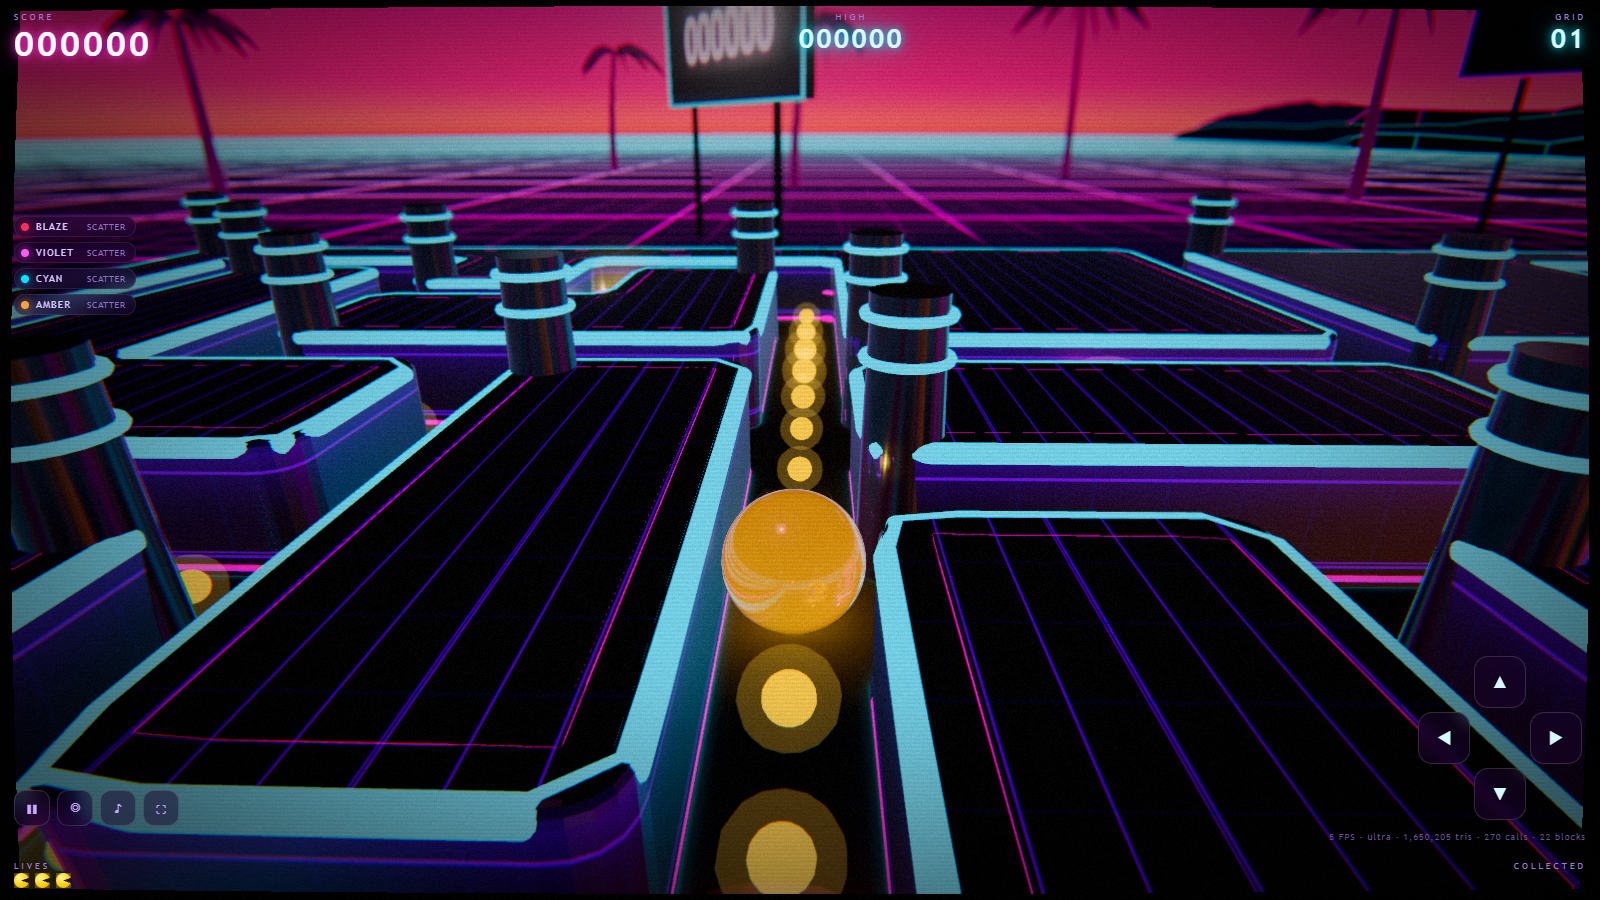
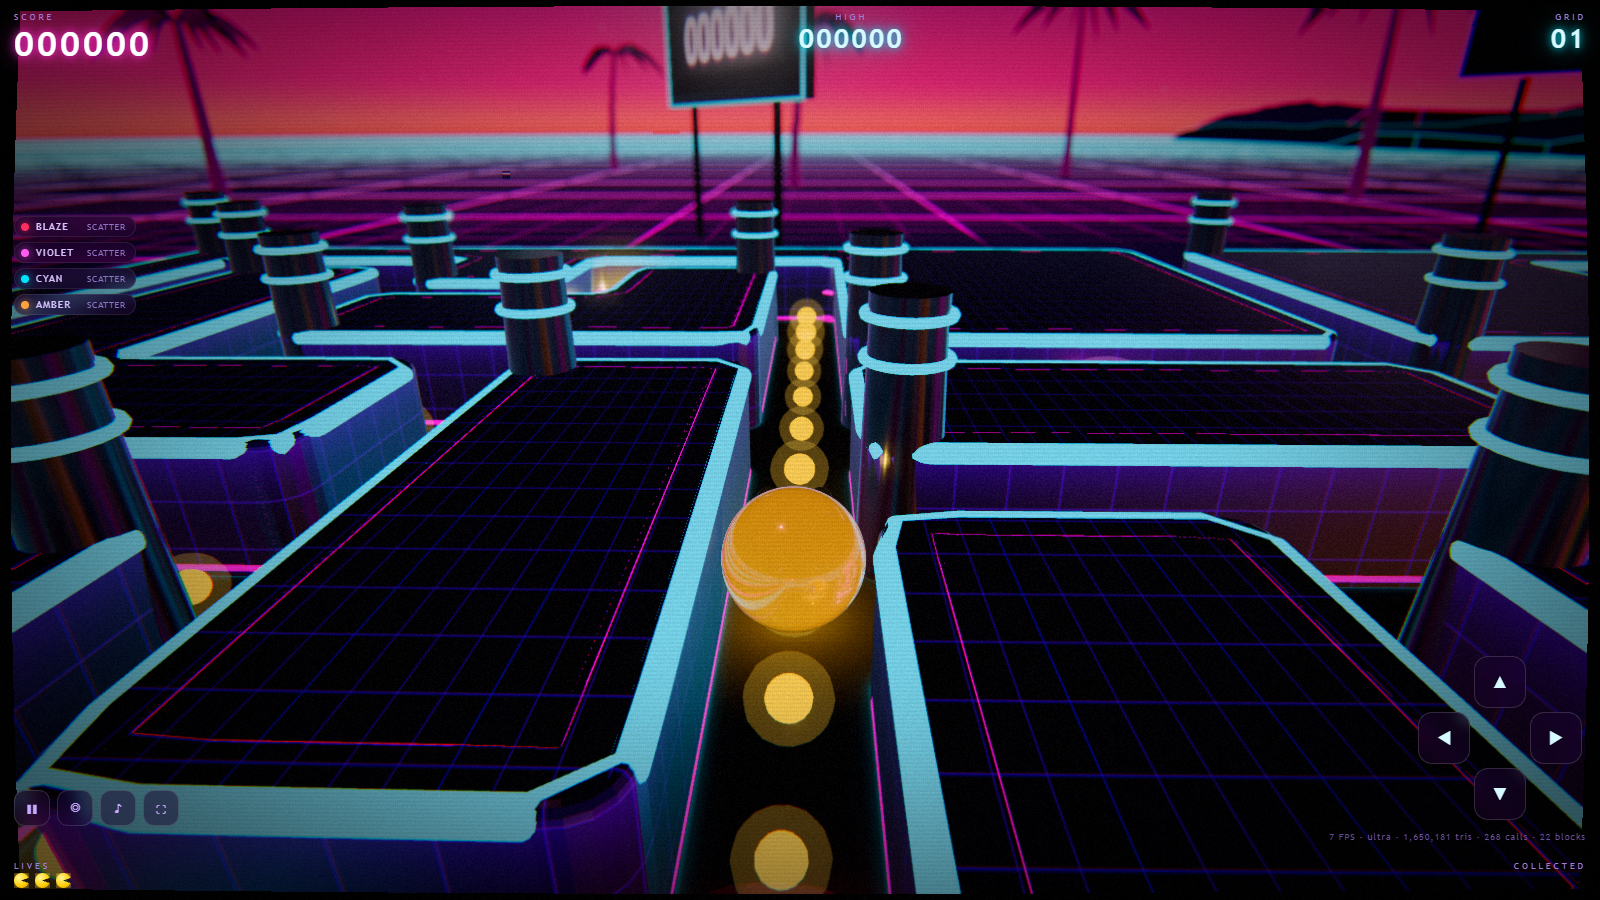
Wall panels become a real tile grid
The wall texture was horizontal rules only, which reads as scanlines at close
range rather than as the laid panels the reference walls have. It is now a proper
square tile grid: grout joints in both axes as the brightest element, a faint
per-tile shade variation so the surface is not a flat field, an inner bevel along
each tile's top and left edges, and one cyan accent joint per texture. Sized so a
texture spans roughly a tile and a half of wall - enough joints to read as
panelling, few enough never to turn into moire.

1218 simulation and geometry assertions, 42 browser assertions, no shader errors.

diff --git a/docs/assets/index-XClKDvgt.js b/docs/assets/index-XClKDvgt.js
@@ -3856,7 +3856,7 @@ uniform float uGhostRimStrength;`).replace("#include <emissivemap_fragment>",`#i
         float a = fade * edge * (0.16 + 0.05 * sin(time * 3.0));
         gl_FragColor = vec4(colour * a * 2.0, a);
       }
-    `}),o=new pe(s,r);return i.add(o),{group:i,update(a){const l=.5+.5*Math.sin(a*3.4);n.scale.setScalar(.9+l*.25),n.rotation.y=a*.9,t.opacity=.35+l*.4,r.uniforms.time.value=a}}}const qo=new Map;function t_(i){if(qo.has(i))return qo.get(i);const e=512,t=256,n=document.createElement("canvas");n.width=e,n.height=t;const s=n.getContext("2d");s.clearRect(0,0,e,t),s.font='bold 150px "Trebuchet MS", "Segoe UI", sans-serif',s.textAlign="center",s.textBaseline="middle",s.lineJoin="round",s.lineWidth=16,s.strokeStyle="rgba(6, 0, 24, 0.92)",s.strokeText(i,e/2,t/2),s.shadowColor="#00e9ff",s.shadowBlur=12,s.fillStyle="#7ef0ff",s.fillText(i,e/2,t/2);const r=new is(n);return r.colorSpace=Et,qo.set(i,r),r}function n_(i=8){const e=new Je,t=[];for(let n=0;n<i;n++){const s=new tl({transparent:!0,depthWrite:!1,depthTest:!1,toneMapped:!1}),r=new Gu(s);r.visible=!1,r.scale.set(2.6,1.3,1),e.add(r),t.push(r)}return{group:e,sync(n){for(let s=0;s<t.length;s++){const r=t[s],o=n[s];if(!o){r.visible=!1;continue}const a=o.age/o.life;r.visible=!0;const l=t_(String(o.points));r.material.map!==l&&(r.material.map=l,r.material.needsUpdate=!0),r.position.set(Vn(o.x),.7+a*1.5,Wn(o.y)),r.material.opacity=1-a*a,r.scale.set(2.6+a*.8,1.3+a*.4,1)}}}}const Ba=.26,Ir=i=>i-14,Ur=i=>15.5-i;function qc(i,e,t){return t<0||t>=cn||e<0||e>=ht?!1:i[t][e]===vt.WALL}function i_(i){const e=new Uint8Array(ht*cn),t=[];for(let n=0;n<cn;n++)for(let s=0;s<ht;s++){if(!qc(i,s,n)||e[n*ht+s])continue;const r=[],o=[[s,n]];for(e[n*ht+s]=1;o.length;){const[a,l]=o.pop();r.push([a,l]);const c=[[a+1,l],[a-1,l],[a,l+1],[a,l-1]];for(const[u,h]of c)u<0||u>=ht||h<0||h>=cn||!qc(i,u,h)||e[h*ht+u]||(e[h*ht+u]=1,o.push([u,h]))}t.push(r)}return t}function s_(i,e){const t=new Set(e.map(([l,c])=>`${l},${c}`)),n=(l,c)=>t.has(`${l},${c}`),s=new Map,r=(l,c,u,h)=>{const f=`${l},${c}`;s.has(f)||s.set(f,[]),s.get(f).push([u,h])};for(const[l,c]of e)n(l,c-1)||r(l+1,c,l,c),n(l,c+1)||r(l,c+1,l+1,c+1),n(l-1,c)||r(l,c,l,c+1),n(l+1,c)||r(l+1,c+1,l+1,c);const o=[];let a=0;for(;s.size&&a++<5e3;){const l=s.keys().next().value;let[c,u]=l.split(",").map(Number);const h=[[c,u]];let f=[c,u],p=0;for(;p++<5e3;){const g=`${f[0]},${f[1]}`,v=s.get(g);if(!v||v.length===0)break;const m=v.shift();if(v.length===0&&s.delete(g),f=m,f[0]===c&&f[1]===u)break;h.push(f)}h.length>=4&&o.push(h)}return o.map(r_)}function r_(i){const e=[],t=i.length;for(let n=0;n<t;n++){const s=i[(n-1+t)%t],r=i[n],o=i[(n+1)%t],a=r[0]-s[0],l=r[1]-s[1],c=o[0]-r[0],u=o[1]-r[1];a*u-l*c!==0&&e.push(r)}return e.length>=4?e:i}function Er(i){let e=0;for(let t=0;t<i.length;t++){const[n,s]=i[t],[r,o]=i[(t+1)%i.length];e+=n*o-r*s}return e/2}function za(i,e,t=5){const n=i.map(([o,a])=>new ne(Ir(o),Ur(a))),s=n.length,r=[];for(let o=0;o<s;o++){const a=n[(o-1+s)%s],l=n[o],c=n[(o+1)%s],u=l.clone().sub(a),h=c.clone().sub(l),f=u.length(),p=h.length();if(f<1e-6||p<1e-6)continue;u.divideScalar(f),h.divideScalar(p);const g=Math.min(e,f*.5,p*.5),v=l.clone().sub(u.clone().multiplyScalar(g)),m=l.clone().add(h.clone().multiplyScalar(g));r.push(v);for(let d=1;d<t;d++){const T=d/t,b=1-T;r.push(new ne(b*b*v.x+2*b*T*l.x+T*T*m.x,b*b*v.y+2*b*T*l.y+T*T*m.y))}r.push(m)}return r}function o_(i,e){const t=i.length;let n=0;for(let o=0;o<t;o++){const a=i[o],l=i[(o+1)%t];n+=a.x*l.y-l.x*a.y}const s=n>0?1:-1,r=[];for(let o=0;o<t;o++){const a=i[o],l=i[(o-1+t)%t],c=i[(o+1)%t],u=c.x-l.x,h=c.y-l.y,f=Math.hypot(u,h)||1,p=-h/f*s*e,g=u/f*s*e;r.push(new ne(a.x+p,a.y+g))}return r}function a_(i,e){const t=new ju(za(i,Ba));for(const n of e)t.holes.push(new Ua(za(n,Ba)));return t}function br(i,e,t,n){const s=i.map(a=>new I(a.x,e,-a.y)),r=new qu(s,!0,"catmullrom",.02),o=Math.max(24,Math.min(1200,Math.round(r.getLength()*2.4)));return new al(r,o,t,n,!0)}function l_(){const e=document.createElement("canvas");e.width=e.height=256;const t=e.getContext("2d");t.fillStyle="#000000",t.fillRect(0,0,256,256),t.strokeStyle="rgba(150, 95, 255, 0.14)",t.lineWidth=1;for(let s=4;s<256;s+=8)t.beginPath(),t.moveTo(0,s+.5),t.lineTo(256,s+.5),t.stroke();t.strokeStyle="rgba(215, 150, 255, 0.9)",t.lineWidth=3;for(let s=0;s<256;s+=84)t.beginPath(),t.moveTo(0,s+.5),t.lineTo(256,s+.5),t.stroke();t.strokeStyle="rgba(0, 230, 255, 0.2)";for(let s=0;s<256;s+=64)t.beginPath(),t.moveTo(s+.5,0),t.lineTo(s+.5,256),t.stroke();const n=new is(e);return n.colorSpace=Et,n.wrapS=Cs,n.wrapT=Cs,n.repeat.set(.5,1.1),n.anisotropy=4,n}function c_(i,e=1024){const t=document.createElement("canvas");t.width=e,t.height=e;const n=t.getContext("2d");n.fillStyle="#000000",n.fillRect(0,0,e,e);const s=34,r=l=>(l+s/2)/s*e,o=[{blur:34,width:11,alpha:.13},{blur:16,width:6,alpha:.24},{blur:6,width:2.6,alpha:.62}];for(const l of o){n.save(),n.globalCompositeOperation="lighter",n.shadowBlur=l.blur,n.lineWidth=l.width,n.lineJoin="round",n.lineCap="round";for(const{poly:c,near:u}of i){const h=u?`rgba(255, 60, 220, ${l.alpha})`:`rgba(60, 230, 255, ${l.alpha})`;n.strokeStyle=h,n.shadowColor=h,n.beginPath(),c.forEach((f,p)=>{const g=r(f.x),v=e-r(f.y);p===0?n.moveTo(g,v):n.lineTo(g,v)}),n.closePath(),n.stroke()}n.restore()}const a=new is(t);return a.colorSpace=Et,a.wrapS=Rn,a.wrapT=Rn,a.needsUpdate=!0,{texture:a,span:s}}function u_(i,e){const t=i_(i.tiles),n=[],s=[],r=[],o=[],a=[],l=[],c=[],u=[];for(const M of t){const z=s_(i.tiles,M);if(!z.length)continue;z.sort((be,Pe)=>Math.abs(Er(Pe))-Math.abs(Er(be)));const $=z[0],Q=z.slice(1),J=Er($.map(([be,Pe])=>[Ir(be),Ur(Pe)])),De=(be,Pe)=>{const ye=Er(be.map(([We,Ne])=>[Ir(We),Ur(Ne)]));return Pe===ye>0?be:[...be].reverse()},ue=J>0?$:[...$].reverse(),ve=Q.map(be=>De(be,!1)),ke=ue.map(([be,Pe])=>new ne(Ir(be),Ur(Pe)));for(let be=0;be<ke.length;be++){const Pe=ke[(be-1+ke.length)%ke.length],ye=ke[be],We=ke[(be+1)%ke.length],Ne=ye.clone().sub(Pe),$e=We.clone().sub(ye);if(Ne.lengthSq()<1e-6||$e.lengthSq()<1e-6||(Ne.normalize(),$e.normalize(),Ne.x*$e.y-Ne.y*$e.x<=0))continue;const O=new ne(-Ne.y-$e.y,Ne.x+$e.x);if(O.lengthSq()<1e-6)continue;O.normalize().multiplyScalar(.34);const he=ye.clone().add(O);c.some(K=>K.distanceToSquared(he)<6)||c.push(he)}const se=a_(ue,ve),Ae=new ol(se,{depth:an,bevelEnabled:!0,bevelThickness:.04,bevelSize:.045,bevelSegments:e.bevelSegments,curveSegments:4});Ae.rotateX(-Math.PI/2),n.push(Ae);for(const be of[ue,...ve]){const Pe=za(be,Ba,e.tubeArcSegments);s.push(br(Pe,an+.02,yr,e.tubeRadial));const ye=o_(Pe,.235);r.push(br(ye,an+.02,yr*.86,e.tubeRadial)),o.push(br(Pe,.07,yr*.7,Math.max(4,e.tubeRadial-2))),a.push(br(Pe,an*.52,yr*.5,Math.max(4,e.tubeRadial-3)));let We=0;for(let Ne=1;Ne<Pe.length;Ne++){const $e=Pe[Ne-1],O=Pe[Ne],he=Math.hypot(O.x-$e.x,O.y-$e.y);if(We+=he,We<1.6)continue;We=0;const K=new Gt(.095,an*.8,.07),ee=Math.atan2(-(O.y-$e.y),O.x-$e.x);K.rotateY(-ee),K.translate(O.x,an*.42,-O.y),l.push(K)}u.push({poly:Pe,near:!1})}}const h=M=>{if(M.length===0)return null;const z=ka(M);return M.forEach($=>$.dispose()),z},f=h(n),p=h(s),g=h(r),v=h(o),m=h(a),d=h(l),T=l_(),b=new hn({color:Ke.wallBody,metalness:.62,roughness:.22,clearcoat:1,clearcoatRoughness:.32,envMapIntensity:.7,emissiveMap:T,emissive:new fe(10640639),emissiveIntensity:.5});b.onBeforeCompile=M=>{M.uniforms.uRimLow={value:new fe(655384)},M.uniforms.uRimHigh={value:new fe(6036660)},M.uniforms.uWallHeight={value:an},M.vertexShader=M.vertexShader.replace("#include <common>",`#include <common>
+    `}),o=new pe(s,r);return i.add(o),{group:i,update(a){const l=.5+.5*Math.sin(a*3.4);n.scale.setScalar(.9+l*.25),n.rotation.y=a*.9,t.opacity=.35+l*.4,r.uniforms.time.value=a}}}const qo=new Map;function t_(i){if(qo.has(i))return qo.get(i);const e=512,t=256,n=document.createElement("canvas");n.width=e,n.height=t;const s=n.getContext("2d");s.clearRect(0,0,e,t),s.font='bold 150px "Trebuchet MS", "Segoe UI", sans-serif',s.textAlign="center",s.textBaseline="middle",s.lineJoin="round",s.lineWidth=16,s.strokeStyle="rgba(6, 0, 24, 0.92)",s.strokeText(i,e/2,t/2),s.shadowColor="#00e9ff",s.shadowBlur=12,s.fillStyle="#7ef0ff",s.fillText(i,e/2,t/2);const r=new is(n);return r.colorSpace=Et,qo.set(i,r),r}function n_(i=8){const e=new Je,t=[];for(let n=0;n<i;n++){const s=new tl({transparent:!0,depthWrite:!1,depthTest:!1,toneMapped:!1}),r=new Gu(s);r.visible=!1,r.scale.set(2.6,1.3,1),e.add(r),t.push(r)}return{group:e,sync(n){for(let s=0;s<t.length;s++){const r=t[s],o=n[s];if(!o){r.visible=!1;continue}const a=o.age/o.life;r.visible=!0;const l=t_(String(o.points));r.material.map!==l&&(r.material.map=l,r.material.needsUpdate=!0),r.position.set(Vn(o.x),.7+a*1.5,Wn(o.y)),r.material.opacity=1-a*a,r.scale.set(2.6+a*.8,1.3+a*.4,1)}}}}const Ba=.26,Ir=i=>i-14,Ur=i=>15.5-i;function qc(i,e,t){return t<0||t>=cn||e<0||e>=ht?!1:i[t][e]===vt.WALL}function i_(i){const e=new Uint8Array(ht*cn),t=[];for(let n=0;n<cn;n++)for(let s=0;s<ht;s++){if(!qc(i,s,n)||e[n*ht+s])continue;const r=[],o=[[s,n]];for(e[n*ht+s]=1;o.length;){const[a,l]=o.pop();r.push([a,l]);const c=[[a+1,l],[a-1,l],[a,l+1],[a,l-1]];for(const[u,h]of c)u<0||u>=ht||h<0||h>=cn||!qc(i,u,h)||e[h*ht+u]||(e[h*ht+u]=1,o.push([u,h]))}t.push(r)}return t}function s_(i,e){const t=new Set(e.map(([l,c])=>`${l},${c}`)),n=(l,c)=>t.has(`${l},${c}`),s=new Map,r=(l,c,u,h)=>{const f=`${l},${c}`;s.has(f)||s.set(f,[]),s.get(f).push([u,h])};for(const[l,c]of e)n(l,c-1)||r(l+1,c,l,c),n(l,c+1)||r(l,c+1,l+1,c+1),n(l-1,c)||r(l,c,l,c+1),n(l+1,c)||r(l+1,c+1,l+1,c);const o=[];let a=0;for(;s.size&&a++<5e3;){const l=s.keys().next().value;let[c,u]=l.split(",").map(Number);const h=[[c,u]];let f=[c,u],p=0;for(;p++<5e3;){const g=`${f[0]},${f[1]}`,v=s.get(g);if(!v||v.length===0)break;const m=v.shift();if(v.length===0&&s.delete(g),f=m,f[0]===c&&f[1]===u)break;h.push(f)}h.length>=4&&o.push(h)}return o.map(r_)}function r_(i){const e=[],t=i.length;for(let n=0;n<t;n++){const s=i[(n-1+t)%t],r=i[n],o=i[(n+1)%t],a=r[0]-s[0],l=r[1]-s[1],c=o[0]-r[0],u=o[1]-r[1];a*u-l*c!==0&&e.push(r)}return e.length>=4?e:i}function Er(i){let e=0;for(let t=0;t<i.length;t++){const[n,s]=i[t],[r,o]=i[(t+1)%i.length];e+=n*o-r*s}return e/2}function za(i,e,t=5){const n=i.map(([o,a])=>new ne(Ir(o),Ur(a))),s=n.length,r=[];for(let o=0;o<s;o++){const a=n[(o-1+s)%s],l=n[o],c=n[(o+1)%s],u=l.clone().sub(a),h=c.clone().sub(l),f=u.length(),p=h.length();if(f<1e-6||p<1e-6)continue;u.divideScalar(f),h.divideScalar(p);const g=Math.min(e,f*.5,p*.5),v=l.clone().sub(u.clone().multiplyScalar(g)),m=l.clone().add(h.clone().multiplyScalar(g));r.push(v);for(let d=1;d<t;d++){const T=d/t,b=1-T;r.push(new ne(b*b*v.x+2*b*T*l.x+T*T*m.x,b*b*v.y+2*b*T*l.y+T*T*m.y))}r.push(m)}return r}function o_(i,e){const t=i.length;let n=0;for(let o=0;o<t;o++){const a=i[o],l=i[(o+1)%t];n+=a.x*l.y-l.x*a.y}const s=n>0?1:-1,r=[];for(let o=0;o<t;o++){const a=i[o],l=i[(o-1+t)%t],c=i[(o+1)%t],u=c.x-l.x,h=c.y-l.y,f=Math.hypot(u,h)||1,p=-h/f*s*e,g=u/f*s*e;r.push(new ne(a.x+p,a.y+g))}return r}function a_(i,e){const t=new ju(za(i,Ba));for(const n of e)t.holes.push(new Ua(za(n,Ba)));return t}function br(i,e,t,n){const s=i.map(a=>new I(a.x,e,-a.y)),r=new qu(s,!0,"catmullrom",.02),o=Math.max(24,Math.min(1200,Math.round(r.getLength()*2.4)));return new al(r,o,t,n,!0)}function l_(){const e=document.createElement("canvas");e.width=e.height=512;const t=e.getContext("2d");t.fillStyle="#000000",t.fillRect(0,0,512,512);const n=4,s=512/n,r=a=>{const l=Math.sin(a*41.7)*43758.5453;return l-Math.floor(l)};for(let a=0;a<n;a++)for(let l=0;l<n;l++){const c=.05+r(l*7+a*13)*.07;t.fillStyle=`rgba(150, 100, 255, ${c.toFixed(3)})`,t.fillRect(l*s+2,a*s+2,s-4,s-4),t.strokeStyle="rgba(190, 140, 255, 0.3)",t.lineWidth=2,t.beginPath(),t.moveTo(l*s+3,(a+1)*s-3),t.lineTo(l*s+3,a*s+3),t.lineTo((l+1)*s-3,a*s+3),t.stroke()}t.strokeStyle="rgba(205, 150, 255, 0.75)",t.lineWidth=3;for(let a=0;a<=n;a++){const l=a*s;t.beginPath(),t.moveTo(0,l),t.lineTo(512,l),t.stroke(),t.beginPath(),t.moveTo(l,0),t.lineTo(l,512),t.stroke()}t.strokeStyle="rgba(0, 230, 255, 0.5)",t.lineWidth=2,t.beginPath(),t.moveTo(0,s*2),t.lineTo(512,s*2),t.stroke();const o=new is(e);return o.colorSpace=Et,o.wrapS=Cs,o.wrapT=Cs,o.repeat.set(.7,1.4),o.anisotropy=8,o}function c_(i,e=1024){const t=document.createElement("canvas");t.width=e,t.height=e;const n=t.getContext("2d");n.fillStyle="#000000",n.fillRect(0,0,e,e);const s=34,r=l=>(l+s/2)/s*e,o=[{blur:34,width:11,alpha:.13},{blur:16,width:6,alpha:.24},{blur:6,width:2.6,alpha:.62}];for(const l of o){n.save(),n.globalCompositeOperation="lighter",n.shadowBlur=l.blur,n.lineWidth=l.width,n.lineJoin="round",n.lineCap="round";for(const{poly:c,near:u}of i){const h=u?`rgba(255, 60, 220, ${l.alpha})`:`rgba(60, 230, 255, ${l.alpha})`;n.strokeStyle=h,n.shadowColor=h,n.beginPath(),c.forEach((f,p)=>{const g=r(f.x),v=e-r(f.y);p===0?n.moveTo(g,v):n.lineTo(g,v)}),n.closePath(),n.stroke()}n.restore()}const a=new is(t);return a.colorSpace=Et,a.wrapS=Rn,a.wrapT=Rn,a.needsUpdate=!0,{texture:a,span:s}}function u_(i,e){const t=i_(i.tiles),n=[],s=[],r=[],o=[],a=[],l=[],c=[],u=[];for(const M of t){const z=s_(i.tiles,M);if(!z.length)continue;z.sort((be,Pe)=>Math.abs(Er(Pe))-Math.abs(Er(be)));const $=z[0],Q=z.slice(1),J=Er($.map(([be,Pe])=>[Ir(be),Ur(Pe)])),De=(be,Pe)=>{const ye=Er(be.map(([We,Ne])=>[Ir(We),Ur(Ne)]));return Pe===ye>0?be:[...be].reverse()},ue=J>0?$:[...$].reverse(),ve=Q.map(be=>De(be,!1)),ke=ue.map(([be,Pe])=>new ne(Ir(be),Ur(Pe)));for(let be=0;be<ke.length;be++){const Pe=ke[(be-1+ke.length)%ke.length],ye=ke[be],We=ke[(be+1)%ke.length],Ne=ye.clone().sub(Pe),$e=We.clone().sub(ye);if(Ne.lengthSq()<1e-6||$e.lengthSq()<1e-6||(Ne.normalize(),$e.normalize(),Ne.x*$e.y-Ne.y*$e.x<=0))continue;const O=new ne(-Ne.y-$e.y,Ne.x+$e.x);if(O.lengthSq()<1e-6)continue;O.normalize().multiplyScalar(.34);const he=ye.clone().add(O);c.some(K=>K.distanceToSquared(he)<6)||c.push(he)}const se=a_(ue,ve),Ae=new ol(se,{depth:an,bevelEnabled:!0,bevelThickness:.04,bevelSize:.045,bevelSegments:e.bevelSegments,curveSegments:4});Ae.rotateX(-Math.PI/2),n.push(Ae);for(const be of[ue,...ve]){const Pe=za(be,Ba,e.tubeArcSegments);s.push(br(Pe,an+.02,yr,e.tubeRadial));const ye=o_(Pe,.235);r.push(br(ye,an+.02,yr*.86,e.tubeRadial)),o.push(br(Pe,.07,yr*.7,Math.max(4,e.tubeRadial-2))),a.push(br(Pe,an*.52,yr*.5,Math.max(4,e.tubeRadial-3)));let We=0;for(let Ne=1;Ne<Pe.length;Ne++){const $e=Pe[Ne-1],O=Pe[Ne],he=Math.hypot(O.x-$e.x,O.y-$e.y);if(We+=he,We<1.6)continue;We=0;const K=new Gt(.095,an*.8,.07),ee=Math.atan2(-(O.y-$e.y),O.x-$e.x);K.rotateY(-ee),K.translate(O.x,an*.42,-O.y),l.push(K)}u.push({poly:Pe,near:!1})}}const h=M=>{if(M.length===0)return null;const z=ka(M);return M.forEach($=>$.dispose()),z},f=h(n),p=h(s),g=h(r),v=h(o),m=h(a),d=h(l),T=l_(),b=new hn({color:Ke.wallBody,metalness:.62,roughness:.22,clearcoat:1,clearcoatRoughness:.32,envMapIntensity:.7,emissiveMap:T,emissive:new fe(10640639),emissiveIntensity:.5});b.onBeforeCompile=M=>{M.uniforms.uRimLow={value:new fe(655384)},M.uniforms.uRimHigh={value:new fe(6036660)},M.uniforms.uWallHeight={value:an},M.vertexShader=M.vertexShader.replace("#include <common>",`#include <common>
 varying float vWallY;
 varying float vWallSide;`).replace("#include <begin_vertex>",`#include <begin_vertex>
   vWallY = position.y;

diff --git a/src/render/mazeMesh.js b/src/render/mazeMesh.js
@@ -269,46 +269,70 @@ function applyDepthGradient(geo, nearColour, farColour, boost = 1) {
  * read as surface detail, large enough not to alias at a full-maze framing.
  */
 function panelTexture() {
-  const size = 256;
+  const size = 512;
   const canvas = document.createElement('canvas');
   canvas.width = canvas.height = size;
   const ctx = canvas.getContext('2d');
   ctx.fillStyle = '#000000';
   ctx.fillRect(0, 0, size, size);
 
-  ctx.strokeStyle = 'rgba(150, 95, 255, 0.14)';
-  ctx.lineWidth = 1;
-  for (let y = 4; y < size; y += 8) {
-    ctx.beginPath();
-    ctx.moveTo(0, y + 0.5);
-    ctx.lineTo(size, y + 0.5);
-    ctx.stroke();
+  // A square tile grid with grout, not just horizontal seams: the reference walls
+  // are laid in panels, and a line-only texture reads as scanlines up close.
+  const TILES = 4;
+  const cell = size / TILES;
+  const rand = (i) => {
+    const v = Math.sin(i * 41.7) * 43758.5453;
+    return v - Math.floor(v);
+  };
+
+  for (let ty = 0; ty < TILES; ty++) {
+    for (let tx = 0; tx < TILES; tx++) {
+      // Faint per-tile variation so the wall is not a flat field.
+      const shade = 0.05 + rand(tx * 7 + ty * 13) * 0.07;
+      ctx.fillStyle = `rgba(150, 100, 255, ${shade.toFixed(3)})`;
+      ctx.fillRect(tx * cell + 2, ty * cell + 2, cell - 4, cell - 4);
+      // A brighter inner bevel along the tile's top and left edges.
+      ctx.strokeStyle = 'rgba(190, 140, 255, 0.3)';
+      ctx.lineWidth = 2;
+      ctx.beginPath();
+      ctx.moveTo(tx * cell + 3, (ty + 1) * cell - 3);
+      ctx.lineTo(tx * cell + 3, ty * cell + 3);
+      ctx.lineTo((tx + 1) * cell - 3, ty * cell + 3);
+      ctx.stroke();
+    }
   }
-  ctx.strokeStyle = 'rgba(215, 150, 255, 0.9)';
+
+  // Grout: the tile joints themselves, brightest of all so they catch the eye.
+  ctx.strokeStyle = 'rgba(205, 150, 255, 0.75)';
   ctx.lineWidth = 3;
-  for (let y = 0; y < size; y += 84) {
+  for (let i = 0; i <= TILES; i++) {
+    const at = i * cell;
     ctx.beginPath();
-    ctx.moveTo(0, y + 0.5);
-    ctx.lineTo(size, y + 0.5);
+    ctx.moveTo(0, at);
+    ctx.lineTo(size, at);
+    ctx.stroke();
+    ctx.beginPath();
+    ctx.moveTo(at, 0);
+    ctx.lineTo(at, size);
     ctx.stroke();
   }
-  ctx.strokeStyle = 'rgba(0, 230, 255, 0.2)';
-  for (let x = 0; x < size; x += 64) {
-    ctx.beginPath();
-    ctx.moveTo(x + 0.5, 0);
-    ctx.lineTo(x + 0.5, size);
-    ctx.stroke();
-  }
+
+  // One cyan accent joint per texture, for a little colour variety.
+  ctx.strokeStyle = 'rgba(0, 230, 255, 0.5)';
+  ctx.lineWidth = 2;
+  ctx.beginPath();
+  ctx.moveTo(0, cell * 2);
+  ctx.lineTo(size, cell * 2);
+  ctx.stroke();
 
   const tex = new THREE.CanvasTexture(canvas);
   tex.colorSpace = THREE.SRGBColorSpace;
   tex.wrapS = THREE.RepeatWrapping;
   tex.wrapT = THREE.RepeatWrapping;
-  // Enough vertical repeat for a handful of seams across a wall face, and no
-  // more: at 3 the faces filled with dozens of stripes and read as a hypnotic
-  // tunnel rather than as panelling.
-  tex.repeat.set(0.5, 1.1);
-  tex.anisotropy = 4;
+  // Sized so a texture spans roughly a tile and a half of wall: enough joints to
+  // read as panelling, few enough that they never turn into moire.
+  tex.repeat.set(0.7, 1.4);
+  tex.anisotropy = 8;
   return tex;
 }
 

diff --git a/docs/index.html b/docs/index.html
@@ -16,7 +16,7 @@
     <link rel="manifest" href="./manifest.webmanifest" />
     <link rel="icon" href="./icon.svg" type="image/svg+xml" />
     <link rel="apple-touch-icon" href="./icon-180.png" />
-    <script type="module" crossorigin src="./assets/index-C-apk3DL.js"></script>
+    <script type="module" crossorigin src="./assets/index-XClKDvgt.js"></script>
     <link rel="stylesheet" crossorigin href="./assets/index-FXWM4Btj.css">
   </head>
   <body>
